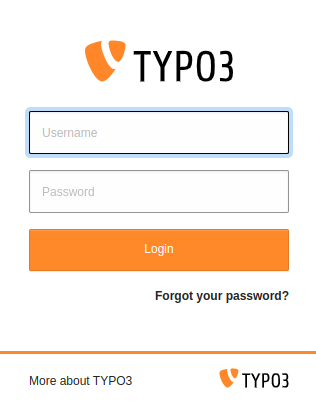
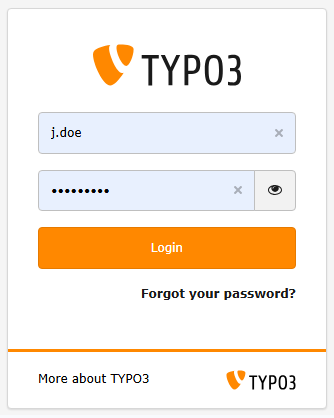
[TASK] Improve backend login page (#181)
Reduce similar screenshots that are not very helpful, add screenshots for troubleshooting section.

releases: main, 13.4

diff --git a/Documentation/Login/Index.rst b/Documentation/Login/Index.rst
@@ -1,10 +1,10 @@
+:navigation-title: Backend login
 ..  include:: /Includes.rst.txt
-
 ..  _login:
 
-===================
-Logging in to TYPO3
-===================
+===========================
+Logging in to TYPO3 backend
+===========================
 
 With TYPO3, an editor's work is done via the backend and having
 an active backend account is required.
@@ -23,12 +23,9 @@ Check that JavaScript and cookies are enabled in your browser as they are
 required by TYPO3's backend.
 
 ..  figure:: /Images/ManualScreenshots/Login/BackendLoginPage.png
-    :class: with-shadow
     :alt: The TYPO3 backend login screen
 
     The TYPO3 backend login screen
-
-..  versionadded:: 12.3
 
 The password can be displayed in clear text by clicking the "eye" symbol
 once something has been typed in the password field.
@@ -38,24 +35,22 @@ once something has been typed in the password field.
     feature with caution when nobody can watch your input, either remotely or by
     looking over your shoulders!
 
-Troubleshooting: Forgot password for backend login
-===================================================
+..  _login-forgot-password:
 
-The following example only works if your site administrator has
+Troubleshooting: Forgot password for backend login
+==================================================
+
+The following example only works if your installation's administrator has
 :ref:`enabled the password reset feature<t3coreapi:access-password-reset>`
-and if your backend account has a valid email address set.
+and if your backend account has a valid email address set. It also requires
+that your TYPO3 installation is able to send mails. Contact your installation's
+administrator if in doubt.
 
 ..  rst-class:: bignums-attention
 
 #.  Click on :guilabel:`Forgot your password?`
 
     Go to the backend login page and select :guilabel:`Forgot your password?`.
-
-    ..  figure:: /Images/ManualScreenshots/Login/ForgotPasswordLink.png
-        :alt: Click on "Forgot your password?"
-        :class: with-shadow
-
-        Click on :guilabel:`Forgot your password?`
 
 #.  Enter your email address
 
@@ -67,29 +62,85 @@ and if your backend account has a valid email address set.
 
         Click on :guilabel:`Forgot your password?`
 
-#.  Open the email
+#.  Open the email and follow the link
 
-    Note that you will get the following page even if the email
-    you entered was not found. This is due to the fact that the system will not
-    disclose information about any registered email addresses.
-
-    If you do not receive the email, check your spam folder and
-    double-check that the email address is correct.
-
-    ..  figure:: /Images/ManualScreenshots/Login/ForgotPasswordSuccess.png
-        :alt: Click on "Forgot your password?"
-        :class: with-shadow
-
-        Click on :guilabel:`Forgot your password?`
+    If you did not receive the email, check your spam folder and
+    double-check that the entered email address is correct.
 
 #.  Enter the new password
 
     After you clicked on the password recovery link in the email you received
-    you can enter a new password. Always use a
-    :ref:`secure password <t3coreapi:security-secure-passwords>`.
+    you can enter a new password. The new password has to respect the password
+    policy requirements configured by the administrator of your installation.
 
-    ..  figure:: /Images/ManualScreenshots/Login/ForgotPasswordChangePassword.png
-        :alt: Enter the secure new password twice
-        :class: with-shadow
+..  _login-troubleshooting:
 
-        You will need to enter your new (secure) password twice
+Troubleshooting: Login does not work
+====================================
+
+*   Check if JavaScript is enabled in your browser.
+*   Check the credentials are correct and valid.
+*   If your IP address changes you might be automatically logged out.
+
+..  _login-troubleshooting-locked:
+
+Backend and Install Tool are locked for maintenance
+---------------------------------------------------
+
+If the administrator locked you TYPO3 installation for maintenance purposes,
+you will see one of the following error messages:
+
+..  warning::
+
+    TYPO3 is in maintenance mode at the moment. Only administrators are allowed access.
+
+    or
+
+    Backend and Install Tool are locked for maintenance. [BE][adminOnly] is set to "-1".
+
+..  figure:: /Images/ManualScreenshots/Login/BackendLocked.png
+    :alt: 503 Login Error: TYPO3 is in maintenance mode at the moment. Only administrators are allowed access.
+
+    The backend login is locked for maintenance.
+
+..  figure:: /Images/ManualScreenshots/Login/BackendLockedDebug.png
+    :alt: Error message: Whoops, looks like something went wrong. Backend and Install Tool are locked for maintenance.
+
+    The backend login is locked for maintenance, including for administrators.
+
+This message can only be removed by an administrator or integrator / programmer
+of the TYPO3 installation.
+
+..  _login-troubleshooting-failed-logins:
+
+Too many failed logins
+----------------------
+
+After a certain amount of failed login attempts within a short time span the
+TYPO3 backend will be automatically logged to prevent brute force login attempts
+and other security relevant attacks:
+
+..  warning::
+
+    The login is locked until 2024-12-31 10:58 due to too many failed
+    login attempts from your IP address.
+
+Wait until after the mentioned time before you retry. Contact your administrator
+if the problem persists.
+
+..  _login-troubleshooting-login-reloads:
+
+Login dialog reloads, no error message displayed
+------------------------------------------------
+
+This can happen if the login cookies are incorrectly set. Try deleting your
+cookies in the browser. If this does not help, inform your administrator.
+
+..  _login-troubleshooting-administrators:
+
+Login trouble shooting for administrators
+=========================================
+
+In case you are the administrator yourself you can find more trouble shooting
+options in `TYPO3 Getting Started, Troubleshooting common TYPO3 backend login
+problems <https://docs.typo3.org/permalink/t3start:troubleshooting-backend-login>`_.
